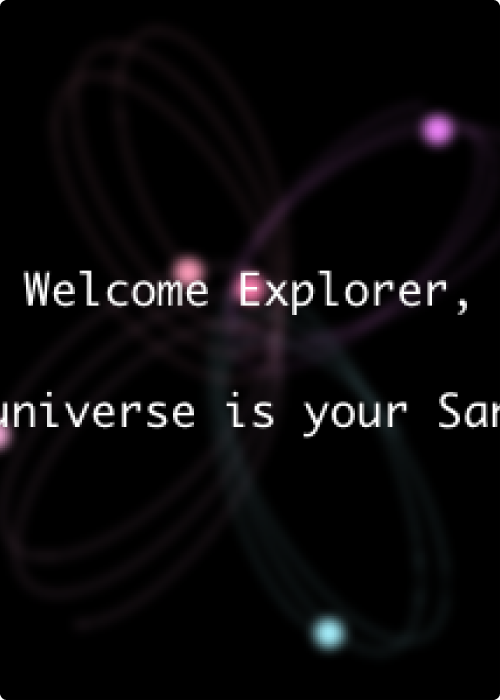
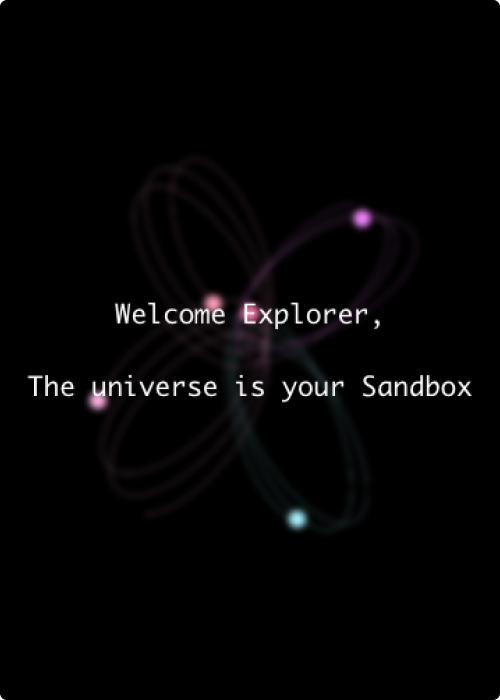
Finished TIA, firefly, hephaestus, and solar explorer page.

diff --git a/src/routes/(project)/hephaestus/+page.svelte b/src/routes/(project)/hephaestus/+page.svelte
@@ -1,0 +1,59 @@
+<script lang="ts">
+    import DescriptionSection from "$lib/components/PageSections/DescriptionSection.svelte";
+    import LeftAlignedDescriptionSection from "$lib/components/PageSections/LeftAlignedDescriptionSection.svelte";
+    import RightAlignedDescriptionSection from "$lib/components/PageSections/RightAlignedDescriptionSection.svelte";
+    import ProjectPageHeader from "$lib/components/ProjectPage/ProjectPageHeader.svelte";
+    import ProjectPageNav from "$lib/components/ProjectPage/ProjectPageNav.svelte";
+
+    import { Data } from "$lib/data";
+    import { Project } from "$lib/models/Project";
+
+    const id = "hephaestus"
+    export let project: Project = Data.works.find((obj: Project) => {
+        return obj.id == id
+    }) ?? new Project("undefined", "undefined", "undefined", "undefined")
+</script>
+<span>
+    <ProjectPageNav id={id} name={project.name}/>
+    <ProjectPageHeader projectID={id} name={project.name} subtitle="A C++ Game Engine" headerColor="#CFFFEE"/>
+
+    <DescriptionSection title={undefined}>
+        <span slot="description">
+            Hephaestus is a game engine that I wrote for my senior project in High School. Alongside creating the engine, I also started work on a game console to go with it.
+            The game console's sole purpose was to run the game engine, and the games that went with it. I am still looking to finish both as the only parts left for the actual game console
+            are the 3D printing of the shell and installing of the parts.
+            <br>
+            <br>
+            If you want to view the progress of the Hephaestus game engine, you can view it below on GitHub.
+        </span>
+        <span slot="extras">
+            <a href="https://github.com/ActuallyZach/Hephaestus" target="_blank">
+                <img alt="Hephaestus Github" srcset="/assets/badges/GithubBadge.png 1x, /assets/badges/GithubBadge@2x.png 2x" class="appstoreButton" />
+            </a>        
+        </span>
+    </DescriptionSection>
+
+    <LeftAlignedDescriptionSection title={"Why Hephaestus?"} path={"assets/images/hephaestus/lookingForANameForTheEngine.png"}>
+        <span slot="description">
+            I chose the name Hephaestus after a good bit of deliberation. Included in this screenshot, you can see the differnet names that I first thought of using.
+            I knew I wanted to use the name of a Greek God from the beginning so I didn't look much past there.
+        </span>
+    </LeftAlignedDescriptionSection>
+
+    <RightAlignedDescriptionSection title={"Olympus Launcher"} path={"assets/images/hephaestus/olympus.png"}>
+        <span slot="description">
+            The Olympus Launcher is a game launcher made with the Hephaestus engine. The launcher allows you to launch the physics demo, the Game Of Life game and the start of Low Data.
+            The Olympus Launcher will be the first thing to open when the console opens.
+        </span>
+    </RightAlignedDescriptionSection>
+
+
+    <DescriptionSection title={"Where is the project?"}>
+        <span slot="description">
+            The project currently sits in limbo. I am a full-time student at the moment so I have not had a lot of time to dedicate to bringing the project back up after the end of High School.
+            I am looking forward to taking advantage of all of the maker spaces on campus to finish off the project once I get more stable in school. For now though, the project is just going to sit
+            until I have the time to fully dedicate to finishing it.
+        </span>
+    </DescriptionSection>
+
+</span>

diff --git a/src/routes/(project)/tia/+page.svelte b/src/routes/(project)/tia/+page.svelte
@@ -1,0 +1,46 @@
+<script lang="ts">
+    import DescriptionSection from "$lib/components/PageSections/DescriptionSection.svelte";
+    import VideoSection from "$lib/components/PageSections/VideoSection.svelte";
+    import ProjectPageHeader from "$lib/components/ProjectPage/ProjectPageHeader.svelte";
+    import ProjectPageNav from "$lib/components/ProjectPage/ProjectPageNav.svelte";
+
+    import { Data } from "$lib/data";
+    import { Project } from "$lib/models/Project";
+
+    const id = "tia"
+    export let project: Project = Data.works.find((obj: Project) => {
+        return obj.id == id
+    }) ?? new Project("undefined", "undefined", "undefined", "undefined")
+</script>
+<span>
+    <ProjectPageNav id={id} name={project.name}/>
+    <ProjectPageHeader projectID={id} name={project.name} subtitle="Welcome Explorer, the universe is your sandbox" headerColor="#FFB6B6"/>
+
+    <DescriptionSection title={undefined}>
+        <span slot="description">
+            Terran Integration Application (or T.I.A. for short) is my 2021 submission to <a href="https://developer.apple.com/wwdc22/swift-student-challenge/">Apple's Swift Student Challenge</a>. This was my second year submitting a project to the challenge and also my second year being one of the 350 winners.
+        </span>
+        <span slot="extras">
+            <a href="https://github.com/ActuallyZach/Terran-Integration-Application-WWDC21" target="_blank">
+                <img alt="TIA WWDC22 GitHub" srcset="/assets/badges/GithubBadge.png 1x, /assets/badges/GithubBadge@2x.png 2x" class="appstoreButton" />
+            </a>        
+        </span>
+    </DescriptionSection>
+    <DescriptionSection title={"About"}>
+        <span slot="description">
+            T.I.A is an application that allows the user to create a genetic simulation. The user can create different species with different sets of genes. 
+            These species will then live together in a randomly generated enviroment. Based on the species genes, the genetic algorithm backing the application will
+            simulate the species evolving and changing to better fit their enviroments.
+
+            <br>
+            <br>
+
+            On top of the genetic algorithm, TIA also has a small storyline built into the application. The storyline puts you in the place of a person who has been discovered an other wordly being.
+            This being has put you down in front of a genetic simulation to see how you would perform as a species ruling over an enviorment. The storyline can be discovered through interacting with
+            the floating TIA ball.
+        </span>
+    </DescriptionSection>
+    <VideoSection title={"Expo Video"} youtubeEmbedID={"qPPdZWZiEEY"}>
+    
+    </VideoSection>
+</span>

diff --git a/src/routes/(project)/solarexplorer/+page.svelte b/src/routes/(project)/solarexplorer/+page.svelte
@@ -1,0 +1,35 @@
+<script lang="ts">
+    import DescriptionSection from "$lib/components/PageSections/DescriptionSection.svelte";
+    import ProjectPageHeader from "$lib/components/ProjectPage/ProjectPageHeader.svelte";
+    import ProjectPageNav from "$lib/components/ProjectPage/ProjectPageNav.svelte";
+
+    import { Data } from "$lib/data";
+    import { Project } from "$lib/models/Project";
+
+    const id = "solarexplorer"
+    export let project: Project = Data.works.find((obj: Project) => {
+        return obj.id == id
+    }) ?? new Project("undefined", "undefined", "undefined", "undefined")
+</script>
+<span>
+    <ProjectPageNav id={id} name={project.name}/>
+    <ProjectPageHeader projectID={id} name={project.name} subtitle="Welcome Explorer, the universe is your sandbox" headerColor="#C9B6FF"/>
+
+    <DescriptionSection title={undefined}>
+        <span slot="description">
+            Solar Explorer is my 2022 submission to <a href="https://developer.apple.com/wwdc22/swift-student-challenge/">Apple's Swift Student Challenge</a>. This is my third year submitting a project to the challenge and also my third year being one of the 350 winners.
+        </span>
+        <span slot="extras">
+            <a href="https://github.com/ActuallyZach/Solar-Explorer-WWDC22" target="_blank">
+                <img alt="Solar Explorer WWDC22 GitHub" srcset="/assets/badges/GithubBadge.png 1x, /assets/badges/GithubBadge@2x.png 2x" class="appstoreButton" />
+            </a>        
+        </span>
+    </DescriptionSection>
+    <DescriptionSection title={"About"}>
+        <span slot="description">
+            My submission this year is another sandbox based game that allows you to create an entire universe. You can spawn in planets, change their mass, and velocity and then watch how they change the universe. 
+            On each of the planets there is an entire genetic simulation of an ecosystem that is based on my <a href="./tia">project last year</a>. The simulation for this yaer is greatly improved with al ot of new features and a much more accurate simulation.
+        </span>
+    </DescriptionSection>
+
+</span>

diff --git a/src/routes/(project)/firefly/+page.svelte b/src/routes/(project)/firefly/+page.svelte
@@ -1,6 +1,5 @@
 <script lang="ts">
     import DescriptionSection from "$lib/components/PageSections/DescriptionSection.svelte";
-    import LeftAlignedDescriptionSection from "$lib/components/PageSections/LeftAlignedDescriptionSection.svelte";
     import ProjectPageHeader from "$lib/components/ProjectPage/ProjectPageHeader.svelte";
     import ProjectPageNav from "$lib/components/ProjectPage/ProjectPageNav.svelte";
 
@@ -21,9 +20,17 @@
             Firefly is a pure swift Syntax highlighter for iOS. It was created to be a fast and native solution to a problem that did not have many good solutions. The project is open sourced so that anyone can help improve it and make it the best syntax highlighter for iOS.
         </span>
         <span slot="extras">
+        </span>
+    </DescriptionSection>
+
+    <!-- <DescriptionSection title={"Why Make Firefly?"}>
+        <span slot="description">
+            When I started working on Jellycuts, there was no good solution for an iOS based syntax highlighter. There were solutions that existed, such as <a href="https://github.com/twostraws/Sourceful">Sourceful</a> by Paul Hudson and <a href="https://github.com/raspu/Highlightr">Highlightr</a>. Both of these had drawbacks when it came too laoding large files and adding custom languages. Because of this, I took the oppurtunity to create a modern version of 
+        </span>
+        <span slot="extras">
             <a href="https://github.com/ActuallyZach/Firefly" target="_blank">
                 <img alt="Firefly Github" srcset="/assets/badges/GithubBadge.png 1x, /assets/badges/GithubBadge@2x.png 2x" class="appstoreButton" />
             </a>        
         </span>
-    </DescriptionSection>
+    </DescriptionSection> -->
 </span>

diff --git a/src/routes/+page.svelte b/src/routes/+page.svelte
@@ -35,8 +35,8 @@
         selectedInterest = "photography"
     }
 
-    function handleInfared() {
-        selectedInterest = "infaredPhotography"
+    function handleinfrared() {
+        selectedInterest = "infraredPhotography"
     }
 </script>
 
@@ -227,7 +227,7 @@ Work Stack
                 />
                 <img
                     src="/assets/design/headerShapes/hexagon.svg"
-                    alt="Infared Hexagon"
+                    alt="infrared Hexagon"
                     width="18"
                     height="18"
                 />
@@ -244,12 +244,12 @@ Work Stack
                 />
             </h4>
         </button>
-        <button id="infaredPhotography" on:click={handleInfared}  class:underlinedHeader="{selectedInterest == "infaredPhotography"}">
+        <button id="infraredPhotography" on:click={handleinfrared}  class:underlinedHeader="{selectedInterest == "infraredPhotography"}">
             <h4>
-                Infared Photography
+                infrared Photography
                 <img
                     src="/assets/design/headerShapes/hexagon.svg"
-                    alt="Infared Hexagon"
+                    alt="infrared Hexagon"
                     width="18"
                     height="18"
                 />

diff --git a/src/lib/components/PageSections/VideoSection.svelte b/src/lib/components/PageSections/VideoSection.svelte
@@ -1,0 +1,38 @@
+<script lang="ts">
+    export let title: string | undefined
+    export let youtubeEmbedID: string
+</script>
+
+<style>
+.video {
+    margin-bottom: 20px;
+}
+
+.videoWrapper {
+    position: relative;
+    margin: 2em;
+    padding-bottom: 56.25%;
+    height: 0;
+}
+
+.videoWrapper iframe {
+    position: absolute;
+    top: 0;
+    left: 0;
+    width: 100%;
+    height: 100%;
+}
+</style>
+
+<div class="video">
+    {#if title != undefined }
+    <h2>{title}</h2>
+    {/if}
+    <div class="videoWrapper">
+        <iframe title="{title} video" width="560" height="349" src="https://www.youtube-nocookie.com/embed/{youtubeEmbedID}?rel=0;showinfo=0&autoplay=0&loop=0&controls=0&hd=1" frameborder="0" allowfullscreen></iframe>
+    </div>
+
+    <slot name="extras">
+
+    </slot>
+</div>

diff --git a/src/lib/data.ts b/src/lib/data.ts
@@ -13,10 +13,10 @@ export class Data {
         new Project("Dungeon <br/>of Epsilon", "Game", "dungoenofepsilon", "software")
     ];
     static interests: Project[] = [
-        new Project("Roe v. Wade", "Event", "roevwade", "photography"),
-        new Project("R.I.T", "Infared", "ritinfared", "infaredPhotography"),
+        new Project("Roe v. Wade", "Protest", "roevwade", "photography"),
+        new Project("R.I.T", "Infrared", "ritinfrared", "infraredPhotography"),
         new Project("Wonder", "Place", "wonderspace", "photography"),
-        new Project("Misc", "Infared", "miscinfared", "infaredPhotography"),
+        new Project("Misc", "Infrared", "miscinfrared", "infraredPhotography"),
     ];
 
     static blogs: BlogEntry[]= [

diff --git a/src/routes/(project)/jellycuts/+page.svelte b/src/routes/(project)/jellycuts/+page.svelte
@@ -1,6 +1,7 @@
 <script lang="ts">
     import DescriptionSection from "$lib/components/PageSections/DescriptionSection.svelte";
     import LeftAlignedDescriptionSection from "$lib/components/PageSections/LeftAlignedDescriptionSection.svelte";
+    import VideoSection from "$lib/components/PageSections/VideoSection.svelte";
     import ProjectPageHeader from "$lib/components/ProjectPage/ProjectPageHeader.svelte";
     import ProjectPageNav from "$lib/components/ProjectPage/ProjectPageNav.svelte";
 
@@ -32,4 +33,5 @@
             </a>
         </span>
     </LeftAlignedDescriptionSection>
+    <VideoSection title={"1.0 Launch Trailer"} youtubeEmbedID={"6JqJXJ_2A44"}></VideoSection>
 </span>

diff --git a/src/routes/(project)/scum/+page.svelte b/src/routes/(project)/scum/+page.svelte
@@ -1,5 +1,4 @@
 <script lang="ts">
-    import DescriptionSection from "$lib/components/PageSections/DescriptionSection.svelte";
     import LeftAlignedDescriptionSection from "$lib/components/PageSections/LeftAlignedDescriptionSection.svelte";
     import ProjectPageHeader from "$lib/components/ProjectPage/ProjectPageHeader.svelte";
     import ProjectPageNav from "$lib/components/ProjectPage/ProjectPageNav.svelte";

diff --git a/src/lib/components/ProjectPage/ProjectPageNav.svelte b/src/lib/components/ProjectPage/ProjectPageNav.svelte
@@ -34,7 +34,7 @@
 <nav>
     <p class="name">Zachary Lineman</p>   
     <p>
-        <a href="/">Home</a> / <a href="/project/{id}">{name}</a>
+        <a href="/">Home</a> / <a href="/{id}">{name}</a>
         <!-- <a href="/project">Projects</a> /  -->
     </p>
 </nav>
